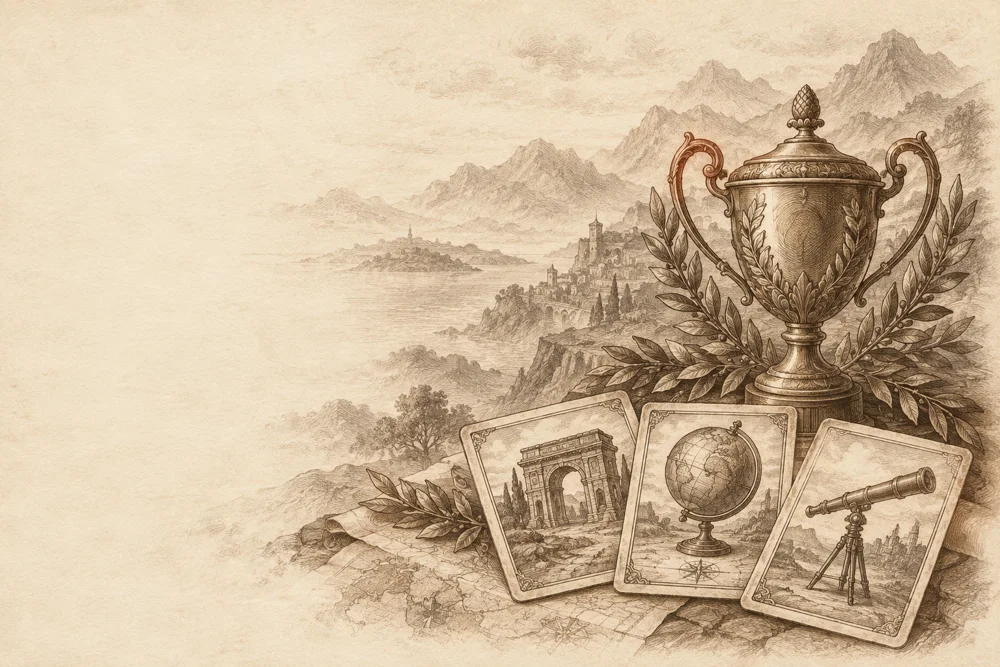
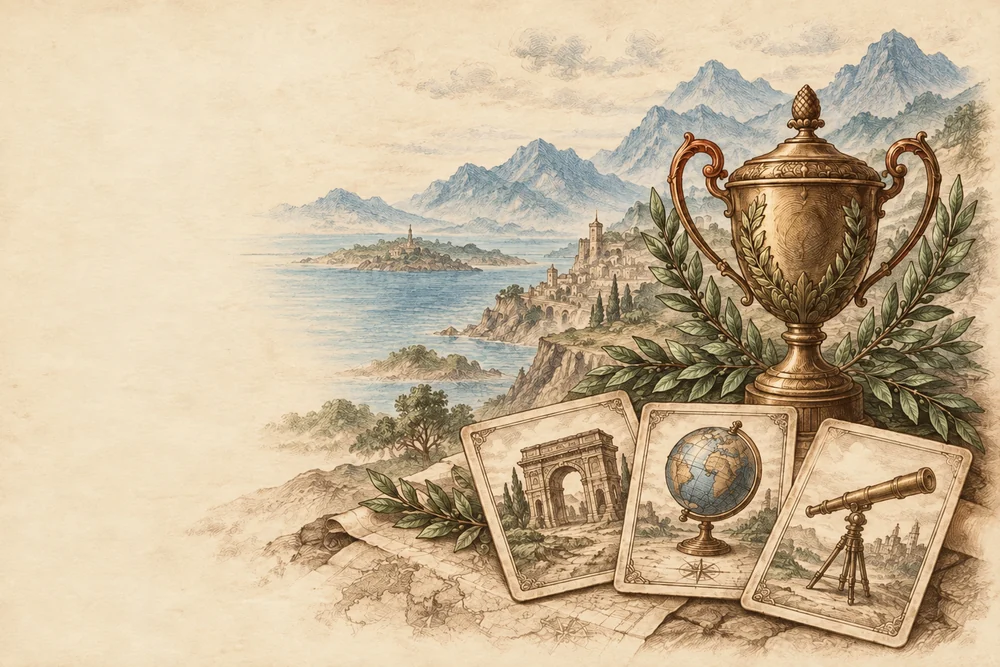
Add restrained color to menu illustrations

Changed region(s): [[0.248, 0.03, 1.0, 0.9895], [0.527, 0.06, 0.589, 0.1199]]

diff --git a/edition.css b/edition.css
@@ -3080,18 +3080,18 @@ html body::before {
   box-shadow: none;
 }
 html::before {
-  background: #e9dcc3 url("assets/continuum-splash-clean-v3.webp") center bottom / cover no-repeat;
+  background: #e9dcc3 url("assets/continuum-splash-blue-v4.webp") center bottom / cover no-repeat;
 }
 :root[data-theme="dark"]::before {
-  background: linear-gradient(#140d08d6, #140d08e6), #140d08 url("assets/continuum-splash-clean-v3.webp") center bottom / cover no-repeat;
+  background: linear-gradient(#140d08d6, #140d08e6), #140d08 url("assets/continuum-splash-blue-v4.webp") center bottom / cover no-repeat;
 }
 /* Fuera de la portada hay textos sobre el fondo: un velo de papel deja la ilustración
    como ambiente sin que las órbitas pasen por detrás de las letras. */
 html:not(:has(#app[data-screen="home"]))::before {
-  background: linear-gradient(#f1e7d2b8, #f1e7d299 60%, #f1e7d24d), #e9dcc3 url("assets/continuum-splash-clean-v3.webp") center bottom / cover no-repeat;
+  background: linear-gradient(#f1e7d2b8, #f1e7d299 60%, #f1e7d24d), #e9dcc3 url("assets/continuum-splash-blue-v4.webp") center bottom / cover no-repeat;
 }
 :root[data-theme="dark"]:not(:has(#app[data-screen="home"]))::before {
-  background: linear-gradient(#140d08e6, #140d08f0), #140d08 url("assets/continuum-splash-clean-v3.webp") center bottom / cover no-repeat;
+  background: linear-gradient(#140d08e6, #140d08f0), #140d08 url("assets/continuum-splash-blue-v4.webp") center bottom / cover no-repeat;
 }
 html body::before {
   background:
@@ -3236,10 +3236,9 @@ html body:not(:has(#app[data-screen="home"]))::before { content: none; }
 #app[data-screen="home"] .home-doors-shell .home-wordmark::after { opacity: 1; }
 :root[data-theme="dark"] #app[data-screen="home"] .home-doors-shell .home-wordmark { text-shadow: 0 0 14px #140d08, 0 4px 12px #000a; }
 
-/* Barniz: la ilustración pierde un punto de saturación y gana un tono terracota; las
-   columnas y el olivo, algo más. */
+/* Barniz suave: conserva el papel cálido sin apagar los azules y el verde del olivo. */
 html::before { filter: saturate(.9) sepia(.08); }
-html body::before { filter: saturate(.76) sepia(.2) hue-rotate(-6deg); }
+html body::before { filter: saturate(.85) sepia(.05); }
 
 /* Rayos de luz también desde la esquina derecha, como los que entran por la izquierda. */
 html body:has(#app[data-screen="home"])::before {
@@ -3252,7 +3251,7 @@ html body:has(#app[data-screen="home"])::before {
 /* Jugar con un punto más de color: el color lo ponen las láminas, que recuperan su
    tono; los tres recuadros comparten el mismo papel terracota suave. */
 html:not(:has(#app[data-screen="home"]))::before {
-  background: linear-gradient(#f3e3c8b3, #f2e1c494 60%, #f0dcbc4d), #e9dcc3 url("assets/continuum-splash-clean-v3.webp") center bottom / cover no-repeat;
+  background: linear-gradient(#f3e3c8b3, #f2e1c494 60%, #f0dcbc4d), #e9dcc3 url("assets/continuum-splash-blue-v4.webp") center bottom / cover no-repeat;
 }
 
 /* Retratos ilustrados: el círculo, la moldura y la sombra pertenecen al juego.

diff --git a/home-modes-v1.css b/home-modes-v1.css
@@ -187,9 +187,8 @@ html #app button.mode-play-card:hover, html #app button.mode-play-card:active { 
 #app .mode-ranking-summary .mode-ranking-stats span { display: flex; flex-direction: column; align-items: center; justify-content: flex-start; }
 #app .mode-ranking-summary .mode-ranking-stats small { font: 700 .66rem var(--ui-font); letter-spacing: .1em; text-transform: uppercase; }
 
-/* Retos rápidos: su lámina es la única casi negra entre las del resto del juego. En tema claro se
-   aclara hasta quedar en el mismo tono sepia que las demás; en oscuro encaja tal cual. */
-:root:not([data-theme="dark"]) #app .mode-entry:is([data-action="quick-challenges"], [data-action="quick-public"]) .mode-entry-art img { filter: sepia(.55) saturate(.7) brightness(1.55) contrast(.72); }
+/* Retos rápidos: en tema claro se aclara la lámina sin borrar sus tintas suaves. */
+:root:not([data-theme="dark"]) #app .mode-entry:is([data-action="quick-challenges"], [data-action="quick-public"]) .mode-entry-art img { filter: sepia(.05) saturate(.82) brightness(1.35) contrast(.82); }
 /* Textos de ayuda dentro de los paneles de configuración: alineados a la izquierda, como los campos. */
 #app :is(.solo-panel, .public-create, .mode-online-config, .quick-shell .panel) .hint { text-align: left; }
 :root[data-theme="dark"] #app .mode-section-title, :root[data-theme="dark"] #app .mode-section-title small { color: #e0b77e; }
@@ -199,6 +198,14 @@ html #app button.mode-play-card:hover, html #app button.mode-play-card:active { 
    para que case con las demás carátulas, y una flecha en vez de «+» porque no despliega mazos. */
 #app .gallery-panel.panel-competition { --scene-glow: #d8b46a; --scene-shade: #3a2c18; --scene-focus: 72%; background: #4a3922; }
 #app .gallery-panel.panel-competition .panel-art img,
-#app .gallery-panel.panel-competition .panel-backdrop img { object-fit: cover; object-position: 66% 38%; filter: sepia(.75) saturate(.9) brightness(.52) contrast(1.15); }
+#app .gallery-panel.panel-competition .panel-backdrop img { object-fit: cover; object-position: 66% 38%; filter: sepia(.05) saturate(.85) brightness(.65) contrast(1.08); }
 #app .home-shell .gallery-panel.panel-competition .collection-open::after,
 #app .gallery-panel.panel-competition .collection-open::after { content: "→"; }
+
+/* Lavados de color solo en ilustraciones de navegación; las cartas conservan sus filtros. */
+#app .mode-entry-art img { filter: sepia(.05) saturate(.85) contrast(1.02); }
+#app .mode-hub-head > img { filter: sepia(.04) saturate(.85); }
+#app[data-screen="home"] .home-doors-shell .home-door-art img { filter: sepia(.05) saturate(.85) contrast(1.03); }
+:root[data-theme="dark"] #app[data-screen="home"] .home-doors-shell .home-door-art img { filter: sepia(.04) saturate(.82) brightness(.92); }
+#app .home-shell .gallery-panel:not(.active) .panel-art { filter: sepia(.05) saturate(.85) brightness(.96); }
+#app .enc-deck-cover img { filter: sepia(.05) saturate(.85); }

diff --git a/index.html b/index.html
@@ -19,10 +19,10 @@
     <link rel="preload" href="assets/continuum-splash-blue-v4.webp" as="image" type="image/webp" fetchpriority="high" />
     <link rel="stylesheet" href="splash.css?v=662" />
     <link rel="stylesheet" href="styles.css" />
-    <link rel="stylesheet" href="edition.css?v=662" />
+    <link rel="stylesheet" href="edition.css?v=663" />
     <link rel="stylesheet" href="accounts.css" />
     <link rel="stylesheet" href="quick-challenges.css" />
-    <link rel="stylesheet" href="home-modes-v1.css" />
+    <link rel="stylesheet" href="home-modes-v1.css?v=663" />
     <!-- Se ejecuta en <head> para decidir si hay telón antes de que el body pueda pintarse. -->
     <script src="splash.js"></script>
     <title>Continuum</title>

diff --git a/service-worker-258.js b/service-worker-258.js
@@ -1,6 +1,6 @@
 // Al cambiar cualquier archivo hay que subir este número: es lo que hace que el
 // navegador reinstale el service worker y descarte la caché anterior.
-const CACHE = "continuum-v662";
+const CACHE = "continuum-v663";
 // Las láminas de animales —5,5 MB en casi cien archivos— no se precargan: quien nunca
 // abre ese bloque no debería pagar esa descarga solo por instalar la aplicación. La ruta
 // `fetch` de más abajo ya guarda en caché cualquier respuesta válida la primera vez que

diff --git a/updates.js b/updates.js
@@ -3,7 +3,7 @@
 (function () {
   "use strict";
   const CT = window.CONTINUUM;
-  CT.APP_VERSION = "continuum-v662";
+  CT.APP_VERSION = "continuum-v663";
   CT.Updates = { start };
   function start() {
     if (!("serviceWorker" in navigator) || window.Capacitor?.isNativePlatform?.()) return;
